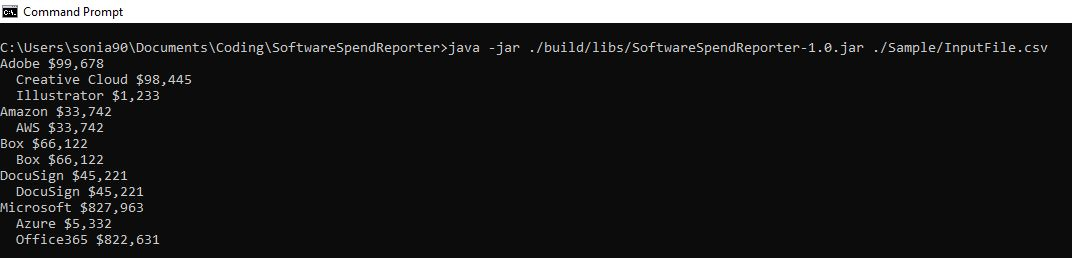
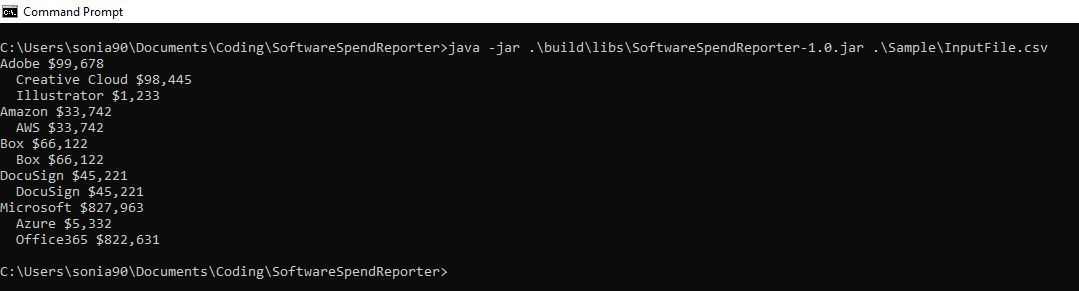
updated path

Changed region(s): [[0.0, 0.124, 0.9851, 0.9612], [0.0, 0.0, 1.0, 0.093]]

diff --git a/README.md b/README.md
@@ -62,6 +62,6 @@
     ```
 5. Execute solution 
     ```
-    java -jar ./build/libs/SoftwareSpendReporter-1.0.jar ./Sample/InputFile.csv
+    java -jar .\build\libs\SoftwareSpendReporter-1.0.jar .\Sample\InputFile.csv
     ```
 	![Output](Screenshots/Output.JPG)
